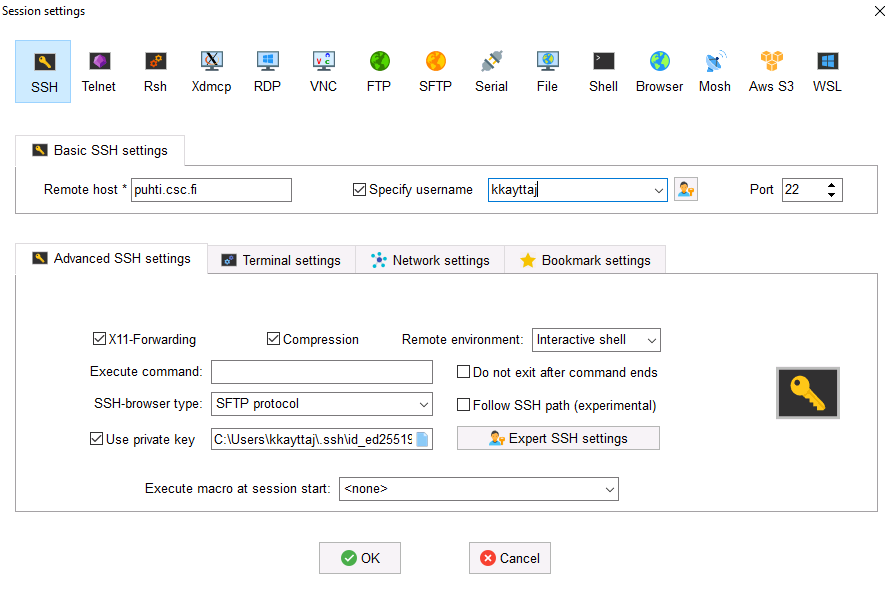
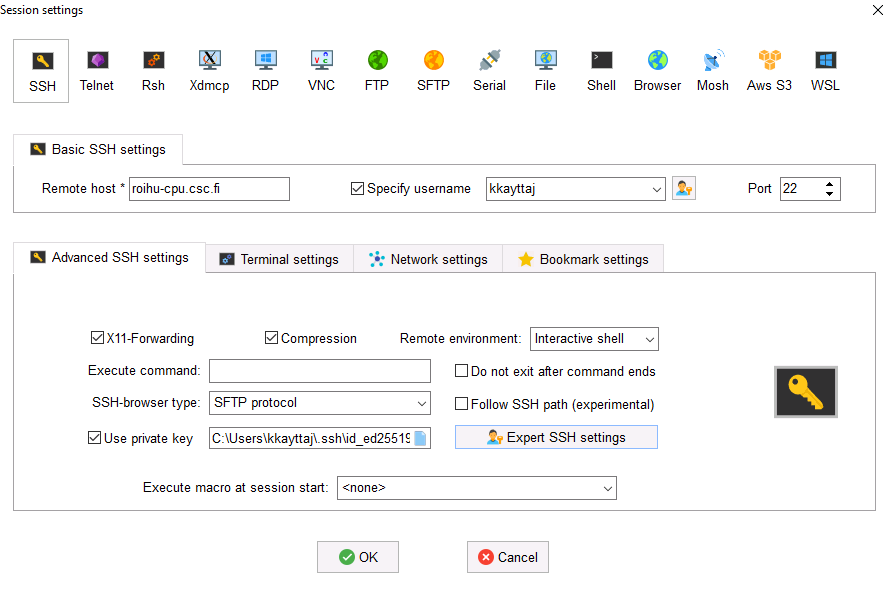
update some images (#402)
* update some images

* updates

* allas in batch jobs

diff --git a/part-2/data-io/allas-batch-jobs.md b/part-2/data-io/allas-batch-jobs.md
@@ -13,41 +13,31 @@ permalink: /hands-on/data-io/tutorial_allas-in-batch-jobs.html
 
 ## Preparations
 
-💬 The `allas-conf` command opens an Allas connection that is valid for eight
-hours.
+💬 On Roihu, `allas-conf` sets up a **persistent S3 connection** by default.
+Unlike the older Swift protocol (which is only valid for eight hours), the S3
+connection does not expire, so there is no need to worry about a batch job
+starting late or running longer than eight hours.
 
-- In case of interactive usage, this eight-hour limit is not problematic as
-  `allas-conf` can be executed again to extend the validity of the connection.
-- In case of batch jobs, the situation is different, as it may take more than
-  eight hours before the job even starts!
-
-1. To be able to use Allas in a batch job, load the Allas module and run
-   `allas-conf` again with the `-k` option:
+1. Load the Allas module and open a connection to Allas interactively
+   **before** submitting your batch job:
 
    ```bash
    module load allas
-   allas-conf -k 
+   allas-conf
    ```
 
-   - Here, the option `-k` indicates that the password will be stored in an
-     environment variable `$OS_PASSWORD`. With this variable defined, you no
-     longer need to input your password when you re-execute `allas-conf` with
-     the `-k` option and the Allas project name.
+   ‼ Re-running `allas-conf` later (e.g. to switch to a different project)
+   updates the generic `s3allas:` rclone endpoint to point at the new
+   project. This can affect batch jobs that are still queued or running! To
+   avoid this, prefer the project-specific endpoint `s3allas-project_<id>:`
+   (also created by `allas-conf`) in your batch scripts instead of
+   `s3allas:`.
 
-   ☝🏻 Note that if you mistype your password when using the `-k` option, you
-   must use the command `unset OS_PASSWORD` before you can try again.
+   💡 If you specifically need the Swift protocol instead (e.g. to access
+   multiple projects from the same session), see
+   [Using the legacy Swift protocol](#using-the-legacy-swift-protocol) below.
 
-2. Refresh the connection with the command:
-
-   ```bash
-   allas-conf -k <project>  # replace <project> with your CSC project, e.g. project_2001234
-   ```
-
-   ☝🏻 When `$OS_PASSWORD` is set, the `a-commands` (`a-put`, `a-get`, `a-list`,
-   `a-delete`) automatically refresh the Allas connection when the commands are
-   executed in a batch job.
-
-3. Choose a file from Allas. The file should have text in it. You can use the
+2. Choose a file from Allas. The file should have text in it. You can use the
    one you created in
    [one of the earlier tutorials](../../part-1/allas/allas-usage.md),
    or then any other text file you have in Allas:
@@ -56,13 +46,13 @@ hours.
    a-list <project_number>_$USER  # replace <project_number> with your CSC project number, e.g. 2001234, to match the bucket you created earlier
    ```
 
-4. Create a new batch job script. First open a new text file with the command:
+3. Create a new batch job script. First open a new text file with the command:
 
    ```bash
    nano allas_job.sh
    ```
 
-5. **Option 1:** `a-commands`
+4. **Option 1:** `a-commands`
    1. Copy the batch job script below to the text file you are editing:
 
       ```bash
@@ -87,11 +77,12 @@ hours.
    and `<filename>` to the name of the file you have in Allas. Remember to also
    define your billing project (`--account`).
 
-6. **Option 2:** `rclone`  
-   
-   ☝🏻 If you use `rclone` or `swift` instead of the `a-commands`, you need to
-   add `source allas_conf` commands to your script.
-   
+5. **Option 2:** `rclone`
+
+   ☝🏻 Since the S3 connection set up in [Preparations](#preparations) is
+   persistent, no extra connection code is needed inside the batch script --
+   just make sure you have run `allas-conf` interactively beforehand.
+
    1. Copy the batch job script below to the text file you are editing:   
 
       ```bash
@@ -107,33 +98,103 @@ hours.
       bucketname=<project_number>_$USER        # Replace with your bucket name, e.g. 2001234_username
       filename=<filename>                      # Replace with your file name
       
-      # Make sure the connection to Allas is open
-      source /appl/soft/manual/general/common/allas/allas-cli-utils/allas_conf --swift -f -k $OS_PROJECT_NAME
-      rclone copy allas:$bucketname/$filename ./
+      rclone copy s3allas:$bucketname/$filename ./
       
       wc -l $filename > $filename.num_rows
       
-      # Make sure the connection to Allas is open
-      source /appl/soft/manual/general/common/allas/allas-cli-utils/allas_conf --swift -f -k $OS_PROJECT_NAME
-      rclone copy $filename.num_rows allas:$bucketname
+      rclone copy $filename.num_rows s3allas:$bucketname
       ```
 
    2. Replace `<project_number>_$USER` to match your bucket name and `<filename>`
    to the name of the file you have in Allas. Remember to also define your
    billing project (`--account`).
 
-7. Submit the batch job with the command:
+   💡 If you're running multiple batch jobs across different projects at the
+   same time, use the project-specific endpoint (`s3allas-project_<id>:`)
+   instead of `s3allas:` to avoid a later `allas-conf` run changing which
+   project your job's `rclone` commands point to.
+
+6. Submit the batch job with the command:
 
    ```bash
    sbatch allas_job.sh
    ```
 
-8.  Monitor the progress of your batch job:
+7.  Monitor the progress of your batch job:
 
     ```bash
     squeue -u $USER
     a-list <project_number>_$USER    # replace <project_number> with your CSC project number, e.g. 2001234, to match your bucket
     ```
+
+## Using the legacy Swift protocol
+
+☝🏻 Roihu defaults to S3, so the steps above are the recommended approach for
+most users. Use this section only if you specifically need Swift, e.g. to
+access multiple projects within the same eight-hour session.
+
+💬 The `allas-conf --swift` command opens a Swift-based Allas connection that
+is valid for eight hours. In interactive use this is not a problem, since
+`allas-conf` can simply be run again to extend the connection. In batch jobs,
+however, the job may still be queuing or running once the connection expires.
+
+1. Load the Allas module and open a Swift connection with the `-k` option:
+
+   ```bash
+   module load allas
+   allas-conf --swift -k
+   ```
+
+   - The `-k` option stores your password in the environment variable
+     `$OS_PASSWORD`. With this variable defined, you no longer need to input
+     your password when you re-execute `allas-conf` with the `-k` option and
+     the Allas project name.
+
+   ☝🏻 Note that if you mistype your password when using the `-k` option, you
+   must use the command `unset OS_PASSWORD` before you can try again.
+
+2. Refresh the connection with the command:
+
+   ```bash
+   allas-conf --swift -k <project>  # replace <project> with your CSC project, e.g. project_2001234
+   ```
+
+   ☝🏻 When `$OS_PASSWORD` is set, the `a-commands` (`a-put`, `a-get`, `a-list`,
+   `a-delete`) automatically refresh the Allas connection when the commands
+   are executed in a batch job, so the **Option 1: `a-commands`** batch
+   script above works with Swift as-is, once the connection has been opened
+   this way.
+
+3. If you use `rclone` instead of the `a-commands`, you need to explicitly
+   refresh the Swift connection inside the batch script itself, since the
+   `$OS_PASSWORD` auto-refresh only applies to `a-commands`:
+
+   ```bash
+   #!/bin/bash
+   #SBATCH --job-name=my_allas_job          # Name of the job visible in the queue.
+   #SBATCH --account=<project>              # Choose the billing project. Has to be defined!
+   #SBATCH --time=00:05:00                  # Maximum duration of the job. Max: depends of the partition. 
+   #SBATCH --mem-per-cpu=1G                 # How much RAM is reserved for one processor.
+   #SBATCH --partition=test                 # Job queues (CPU): interactive, test, small, medium, large, longrun, hugemem, hugemem_longrun
+   #SBATCH --output=allas_output_%j.txt     # Name of the output-file.
+   #SBATCH --error=allas_errors_%j.txt      # Name of the error-file.
+   
+   bucketname=<project_number>_$USER        # Replace with your bucket name, e.g. 2001234_username
+   filename=<filename>                      # Replace with your file name
+   
+   # Make sure the connection to Allas is open
+   source /appl/soft/manual/general/common/allas/allas-cli-utils/allas_conf --swift -f -k $OS_PROJECT_NAME
+   rclone copy allas:$bucketname/$filename ./
+   
+   wc -l $filename > $filename.num_rows
+   
+   # Make sure the connection to Allas is open
+   source /appl/soft/manual/general/common/allas/allas-cli-utils/allas_conf --swift -f -k $OS_PROJECT_NAME
+   rclone copy $filename.num_rows allas:$bucketname
+   ```
+
+   💡 Note that the Swift-configured `rclone` remote is named `allas:`, not
+   `s3allas:` (which is reserved for the S3 connection).
 
 ## More information
 

diff --git a/part-1/prerequisites/basic-file-editing.md b/part-1/prerequisites/basic-file-editing.md
@@ -56,7 +56,7 @@ In the [previous tutorial](https://csc-training.github.io/csc-env-eff/hands-on/l
    ‼ Note: The following has to be typed in your personal computer's terminal, not Roihu (make sure you have set up SSH keys and downloaded an SSH certificate):
 
    ```bash
-   scp cscusername@roihu.csc.fi:/path/to/your/filename.md /path/to/local/folder
+   scp cscusername@roihu-cpu.csc.fi:/path/to/your/filename.md /path/to/local/folder
    ```
 
 5. Look for the file on your personal computer and check that the contents match.

diff --git a/_slides/08_datamigration_io.md b/_slides/08_datamigration_io.md
@@ -29,7 +29,7 @@ Unported License, [http://creativecommons.org/licenses/by-sa/4.0/](http://creati
 - A parallel file system (PFS) provides a common file system area that can be accessed from all nodes in a cluster
 - Without PFS users would have to always copy all needed data to compute nodes before runs (cf. local disk)
     - Also the results would not be visible outside the compute node
-- CSC uses **Lustre** parallel file system Roihu 
+- CSC uses **Lustre** parallel file system on Roihu 
 
 # Lustre
 
